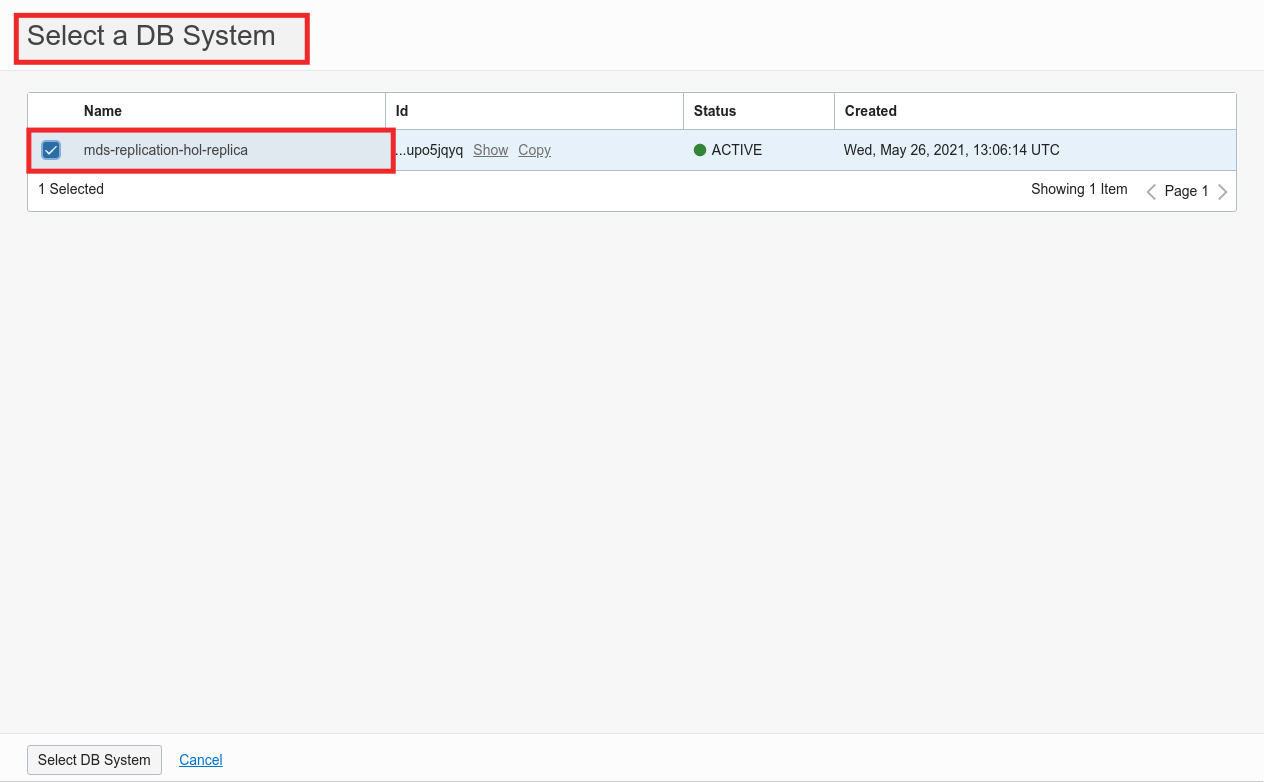
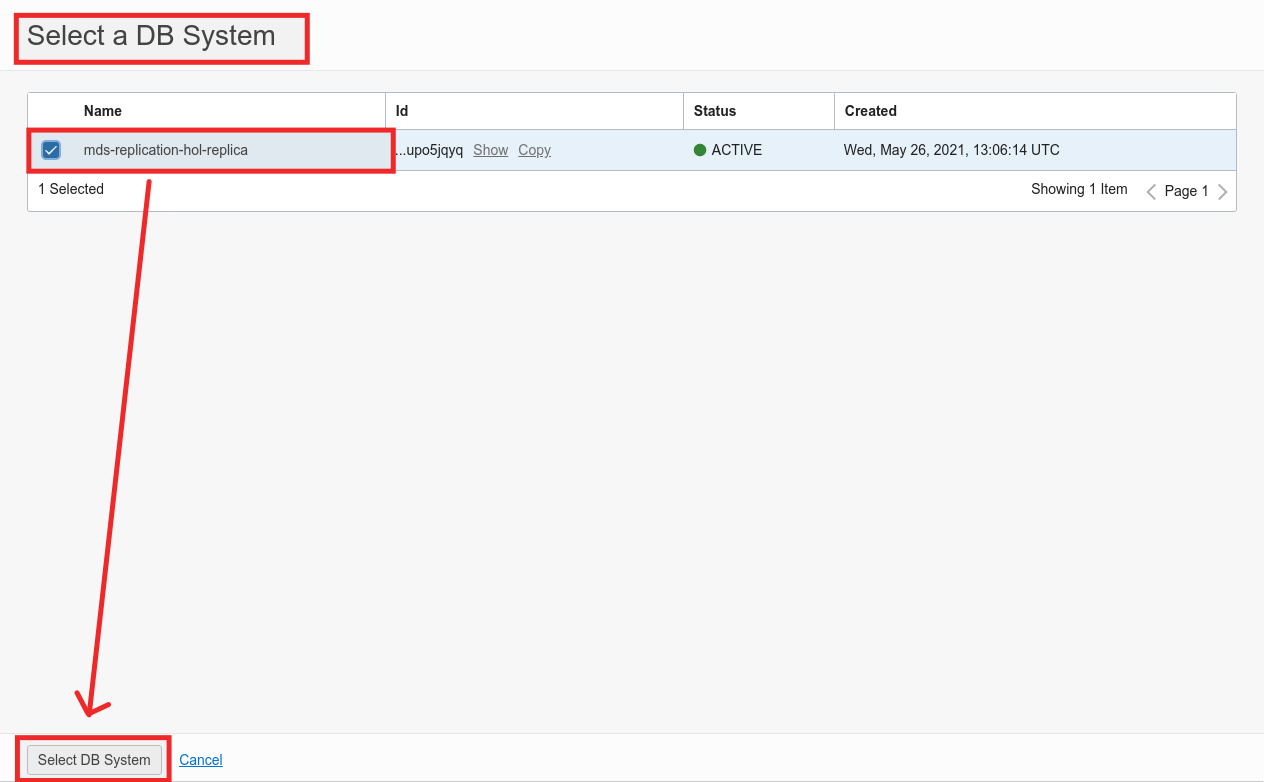
Add files via upload

Changed region(s): [[0.0, 0.6138, 0.1543, 1.0], [0.0926, 0.2455, 0.1234, 0.5831]]

diff --git a/Lab5/README.md b/Lab5/README.md
@@ -41,7 +41,12 @@ In OCI, Inbound Replication requires a replication channel configured in MySQL D
 ### **Step 5.4:**
 - The _**Source Connection**_ section allows you to configure the parameters to set the replication with the MySQL Source Instance.
 
-- Enter the following values: 
+- _**PLEASE NOTE**_: Since the MySQL Database Service DB System _**DOES NOT**_ have direct access to the internet, as mentioned in the introduction, you will be using the _**MySQL Router Internal FQDN**_ as _**Source Hostname**_.
+You can retrieve it from the MySQL Router Compute Instance details page (_**Main Menu >> Compute >> Instances >> click on the MySQL Router instance**_), as per below picture:
+
+![](images/Lab5-4a.png)
+
+- Once you have retrieved the _**MySQL Router Internal FQDN**_, enter the following values in the _**Source Connection**_ input fields (as in the below picture): 
 	Hostname: _**MySQL Router Internal FQDN**_ 
 	Port: _**3306**_
 	Username: _**root**_
@@ -50,7 +55,7 @@ In OCI, Inbound Replication requires a replication channel configured in MySQL D
 
 - Under the _**SSL Mode**_ subsection, select the box _**Disabled (DISABLED)**_
 
-![](images/Lab5-4.png)
+![](images/Lab5-4b.png)
 
 ### **Step 5.5:**
 - The _**Target**_ section allows you to choose the _**MySQL Database Service DB System**_ which you will select as _**Replica**_
@@ -64,7 +69,7 @@ In OCI, Inbound Replication requires a replication channel configured in MySQL D
 ![](images/Lab5-5.png)
 
 ### **Step 5.6:**
-- In the _**Select a DB System Window**_, select the _**mds-replication-hol-replica**_ which you have previously created and then click _**Select DB System**_.
+- In the window _**Select a DB System**_, select the _**mds-replication-hol-replica**_ which you have previously created and then click the button _**Select DB System**_.
 
 ![](images/Lab5-6.png)
 
@@ -78,23 +83,36 @@ In OCI, Inbound Replication requires a replication channel configured in MySQL D
 
 ![](images/Lab5-8.png)
 
+- _**Congratulations!! You managed to succesfully set up a replicated environment using MySQL Database Service!!**_
+In the next few steps, you will verify that everyhing works as expected and observe replication in action!!
+
 ### **Step 5.9:**
 - Go back to the Cloud Shell, which should still be connected the _**mysql-replication-router**_ instance
 - From the _**mysql-replication-router**_ instance you will now access the _**MDS Replica Instance**_ over the _**Private IP Address**_, to check that the content from the _**Replication Source**_ has been correctly replicated.
-To do so, execute:
+
+_**PLEASE NOTE**_: In order to connect to _**MDS**_ we will use its _**Private IP**_. You can retrieve the _**MDS  Private IP Address**_ from the MDS DB System details page (_**Main Menu >> Compute >> Instances >> click on the MDS DB System**_), as per below picture:
+
+![](images/Lab5-9a.png)
+
+To connect to the _**MDS Replica Instance**_ and list existing schemas, execute the following commands:
 ```
 mysqlsh --uri admin:Oracle.123@<mds-private-ip>:3306 --sql
 show databases;
 ```
 - You should see the _**world_x**_ schema, as in the picture below.
 
-![](images/Lab5-9.png)
+![](images/Lab5-9b.png)
 
 - _**Optional**_: Execute the command
 ```
 SHOW REPLICA STATUS\G
 ```
-and have a look at the output.
+The output should look as follows:
+
+![](images/Lab5-9c.png)
+
+_**Additional Explanation**_: If replication is working correctly you will see the _**Slave/Replica_IO_State**_ field marked as _**Waiting for master to send event**_ and the _**Last_Error**_ field marked empty.
+In case of errors in the replication, the _**Last_Error**_ field will contain an explanation of the error, which is going to be useful for troubleshooting.
 
 ### **Step 5.10:**
 - Exit the MySQL Shell connection to _**MDS**_ typing:
@@ -104,7 +122,12 @@ and have a look at the output.
 
 ### **Step 5.11:**
 - You will now connect to the _**MySQL Replication Source**_ over the _**Public IP Addrees**_ and create a dummy database.
-To do so, execute the commands:
+
+_**PLEASE NOTE**_: In order to connect to_**MySQL Replication Source**_ we will use its _**Public IP Addrees**_. You can retrieve the _**Replication Source  Public IP Address**_ from the Replication Source Compute Instance details page (_**Main Menu >> Database >> MySQL >> click on the Replication Source instance**_), as per below picture:
+
+![](images/Lab5-11.png)
+
+To connect to the _**MySQL Replication Source**_ and create a new schema, execute the commands:
 ```
 mysqlsh --uri root:Oracle.123@<source-public-ip>:3306 --sql
 create database test;
@@ -112,7 +135,13 @@ create database test;
 ```
 
 ### **Step 5.12:**
-- Time to see replication in action! Connect to _**MDS Replica Instance**_ over the _**Private IP Address**_ and check again the list of schemas:
+- Time to see replication in action! Connect to _**MDS Replica Instance**_ over the _**Private IP Address**_ and check again the list of schemas.
+
+_**PLEASE NOTE**_: In order to connect to _**MDS**_ we will use its _**Private IP**_. You can retrieve the _**MDS  Private IP Address**_ from the MDS DB System details page (_**Main Menu >> Compute >> Instances >> click on the MDS DB System**_), as per below picture:
+
+![](images/Lab5-9a.png)
+
+To connect again to _**MDS Replica Instance**_ and check if the previously created schema has replicated successfully, execute the following commands:
 ```
 mysqlsh --uri root:Oracle.123@<mds-private-ip>:3306 --sql
 show databases;
